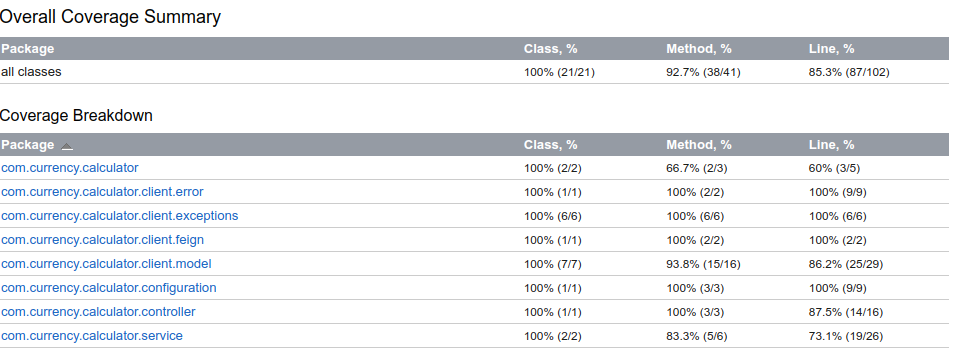
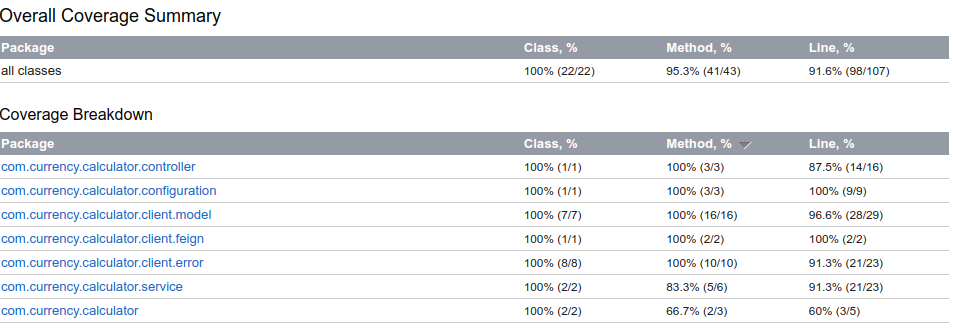
test: refactor BaseCodeNotFoundException test

Changed region(s): [[0.0, 0.3003, 1.0, 0.991], [0.0, 0.03, 1.0, 0.2402]]

diff --git a/src/test/kotlin/com/currency/calculator/service/ExchangeRateServiceTest.kt b/src/test/kotlin/com/currency/calculator/service/ExchangeRateServiceTest.kt
@@ -1,6 +1,7 @@
 package com.currency.calculator.service
 
-import com.currency.calculator.client.exceptions.BaseCodeNotFoundException
+import com.currency.calculator.client.error.BaseCodeNotFoundException
+import com.currency.calculator.client.error.ExchangeErrorDecoder
 import com.currency.calculator.client.feign.ExchangeFeignClient
 import com.currency.calculator.client.model.ExchangeRatesResponse
 import com.currency.calculator.client.model.RatesResponse
@@ -8,6 +9,7 @@ import com.currency.calculator.client.model.formatRatesToTwoDecimalPlaces
 import com.currency.calculator.controller.ExchangeRateController
 import com.currency.calculator.mock.RatesResponseMock
 import com.google.gson.Gson
+import feign.Response
 import io.mockk.*
 import kotlinx.serialization.json.Json
 import org.junit.jupiter.api.Assertions.assertEquals
@@ -17,6 +19,7 @@ import org.mockito.Mockito
 import org.springframework.beans.factory.annotation.Autowired
 import org.springframework.boot.test.autoconfigure.web.servlet.WebMvcTest
 import org.springframework.boot.test.mock.mockito.MockBean
+import org.springframework.http.HttpStatus
 import org.springframework.http.MediaType
 import org.springframework.test.context.TestPropertySource
 import org.springframework.test.web.servlet.MockMvc
@@ -42,13 +45,12 @@ class ExchangeRateServiceTest {
 
     @Test
     fun `should return latest rates for a valid base code`() {
-        // Arrange
+
         val baseCode = "BRL"
         val expectedConversionRates = ratesResponseMock.getLatestRates()
 
         Mockito.`when`(exchangeRateService.getLatestByBaseCode(baseCode)).thenReturn(expectedConversionRates)
 
-        // Act & Assert
         val result = mockMvc.perform(get("/latest/$baseCode"))
             .andExpect(status().isOk)
             .andExpect(content().contentType(MediaType.APPLICATION_JSON))
@@ -64,23 +66,14 @@ class ExchangeRateServiceTest {
     @Test
     fun `should throw BaseCodeNotFoundException when base code is not found`() {
 
-        val invalidBaseCode = "INVALID_BASE_CODE"
+        val methodKey = "ExchangeFeignClient#getLatestExchangeFor"
+        val response = createMockResponse(HttpStatus.NOT_FOUND.value())
+        val errorDecoder = ExchangeErrorDecoder()
 
-        val exchangeFeignClient = mockk<ExchangeFeignClient>()
-        val exchangeApiUrl = "https://v6.exchangerate-api.com/v6/\${EXCHANGE_API_KEY}"
-
-        every {
-            exchangeFeignClient.getLatestExchangeFor(
-                any(),
-                invalidBaseCode
-            )
-        } throws RuntimeException("Base code not found")
-
-        val exchangeRateService = ExchangeRateServiceImpl(exchangeFeignClient, exchangeApiUrl)
-
-        assertThrows<BaseCodeNotFoundException> {
-            exchangeRateService.getLatestByBaseCode(invalidBaseCode)
+        val exception = assertThrows<BaseCodeNotFoundException> {
+            errorDecoder.decode(methodKey, response)
         }
+        assertEquals("defaultBaseCode", exception.message)
     }
 
     @Test
@@ -91,11 +84,8 @@ class ExchangeRateServiceTest {
         val rates = ratesResponseMock.getLatestRates()
 
         every { exchangeFeignClient.getLatestExchangeFor(any(), any()) } returns getMockApiResponse(rates)
-
         val exchangeRateService = spyk(ExchangeRateServiceImpl(exchangeFeignClient, exchangeApiUrl))
-
         every { exchangeRateService.getLatestByBaseCode(baseCode) } returns rates
-
         val result = exchangeRateService.getAmountCalculated(amount)
 
         val expectedResponse = mapOf(
@@ -103,7 +93,6 @@ class ExchangeRateServiceTest {
             "USD" to (amount * rates.USD),
             "INR" to (amount * rates.INR)
         )
-
         val formattedExpectedResponse = expectedResponse.mapValues { (_, value) -> String.format("%.2f", value).toDouble() }
 
         assertEquals(formattedExpectedResponse, result)
@@ -129,11 +118,35 @@ class ExchangeRateServiceTest {
     }
 
     @Test
+    fun `test formatRatesToTwoDecimalPlaces with scale 2`() {
+
+        val exchangeFeignClient = mockk<ExchangeFeignClient>()
+        val exchangeApiUrl = "https://v6.exchangerate-api.com/v6/test-api-key"
+        val json = Json { ignoreUnknownKeys = true }
+
+        val ratesResponse = RatesResponse(1.234567, 2.987654, 3.0, 4.9999)
+        val exchangeRatesResponse = ExchangeRatesResponse("BRL", ratesResponse)
+        val responseJson = json.encodeToString(ExchangeRatesResponse.serializer(), exchangeRatesResponse)
+
+        every {
+            exchangeFeignClient.getLatestExchangeFor(any(), any())
+        } returns responseJson
+
+        val exchangeRateService = ExchangeRateServiceImpl(exchangeFeignClient, exchangeApiUrl)
+
+        val result = exchangeRateService.getLatestByBaseCode("BRL")
+
+        assertEquals(1.23, result.BRL)
+        assertEquals(2.99, result.EUR)
+        assertEquals(3.0, result.INR)
+        assertEquals(5.0, result.USD)
+    }
+
+    @Test
     fun `should throw MalformedRequestException when amount is invalid`() {
 
         val invalidAmount = -100.0
 
-        // Act & Assert
         mockMvc.perform(get("/calculate/$invalidAmount"))
             .andExpect(status().isBadRequest)
             .andExpect(content().string("Invalid amount: -100.0"))
@@ -151,6 +164,12 @@ class ExchangeRateServiceTest {
                 }
             }
         """.trimIndent()
+    }
+
+    private fun createMockResponse(statusCode: Int): Response {
+        val response = mockk<Response>()
+        every { response.status() } returns statusCode
+        return response
     }
 
 }

diff --git a/README.md b/README.md
@@ -142,6 +142,7 @@ CONVERSÃO
 curl --location 'http://localhost:8001/latest/BRL'
 ```
 
+obs: abaixo você poide substituir o 529.99 por qualquer outro valor bigdecimal. 
 CÁLCULO
 ```bash
 curl --location 'http://localhost:8001/calculate/529.99'
